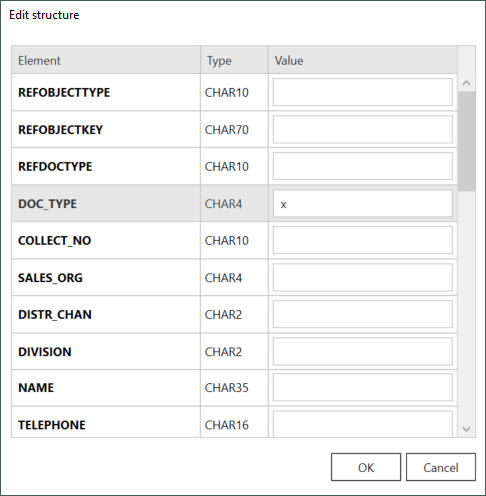
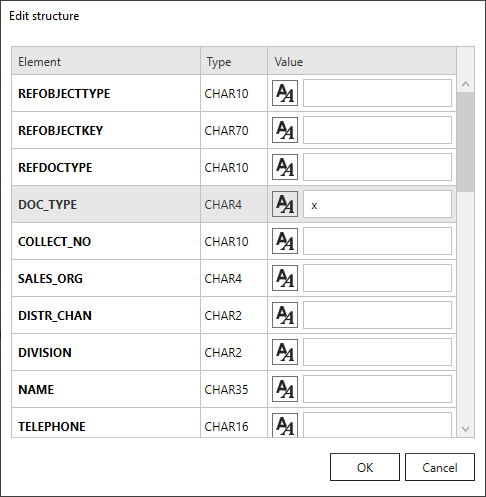
BAPI mapping

diff --git a/_includes/_content/de/xis-specific/xtract-is-bapi/parameters.md b/_includes/_content/de/xis-specific/xtract-is-bapi/parameters.md
@@ -4,17 +4,6 @@ Jeder Import, Export und Changings-Parameter kann einen der folgenden Darstellun
 - eine Struktur, die mehrere Komponenten beinhaltet
 - eine Tabelle
 
-|Symbol  | Beschreibung |Details | 
-| ----- | --------------- | ------------ | 
-|![sap-default](/img/content/icons/checkbox.png) | SAP Standardwerte|  Wenn diese Checkbox inaktiv ist, werden Standardwerte aus SAP verwendet. Nicht alle Felder haben Standardwerte. Wenn ein Wert in SAP vorhanden ist, wird er in hellgrauer Schrift im Eingabefeld angezeigt. |
-|![sap-default](/img/content/icons/checkbox-checked.png) | Feste Werte | Geben Sie Werte in das Eingabefeld ein. Vorhandene SAP Standardwerte werden überschrieben.|
-|![static-value](/img/content/icons/runtime-parameters-static.png) | Feste Werte | Geben Sie Werte in das Eingabefeld ein. Vorhandene SAP Standardwerte werden überschrieben. Klicken Sie auf das Symbol, um zwischen der Eingabe von festen Werten und SSIS-Variablen zu wechseln. |
-|![dynamic-value](/img/content/icons/runtime-parameters-dynamic.png) | Variablen | Diese Option ist nur verfügbar, wenn SSIS Variablen oder PArameter definiert sind. Klicken Sie auf das Symbol, um zwischen der Eingabe von festen Werten und SSIS-Variablen zu wechseln.  | 
-|![edit-icon](/img/content/icons/pen.png) | Struktur | Diese Option ist verfügbar, wenn der Parameter mehrere Skalarparameter beinhaltet. Klicken Sie auf das Symbol, um die beinhalteten Skalarparameter einzeln zu bearbeiten. | 
-|![glasses-icon](/img/content/icons/glasses.png) | Metadata | Zeigt die Metadaten (Spaltennamen und Datentypen) einer Struktur / Tabelle an. Diese Option ist nützlich, wenn Sie Tabellen mappen.| 
-
-![BAPI icons](/img/content/xis/BAPI-icons.png){:class="img-responsive"}
-
 ### Import-Parameter
 
 **Imports** repräsentiert die Eingabewerte, die vom Client an SAP gesendet werden. 
@@ -27,17 +16,16 @@ Um die Filterfunktion zu verwenden, geben Sie in der Kopfzeile der Spalten **Nam
 #### Skalarparameter hinzufügen (1)
 
 Es gibt zwei Möglichkeiten Skalarfelder einzustellen: 
-- als statischer Wert ( ![static-value](/img/content/icons/runtime-parameters-static.png) Symbol)
-- als SSIS-Variable / Parameter ( ![dynamic-value](/img/content/icons/runtime-parameters-dynamic.png) Symbol)
+- als statischer Wert ( ![static-value](/img/content/icons/runtime-parameters-static.png) Symbol oder kein Symbol).<br>
+- als SSIS-Variable / Parameter ( ![dynamic-value](/img/content/icons/runtime-parameters-dynamic.png) Symbol).<br>
 
 Klicken Sie auf das Symbol neben dem Eingabefeld, um zwischen statischen Werten und SSIS-Variablen / Parametern zu wechseln.
-
-Wenn Sie dynamische Laufzeitparameter verwenden, stellen Sie sicher, dass die Eingabe den passenden Datentyp hat.<br>
-Wenn Sie konstante Skalarwerte eingeben, werden Eingaben des falschen Datentyps automatisch rot markiert.
+Wenn Sie dynamische SSIS-Variablen verwenden, stellen Sie sicher, dass die Eingabe den passenden Datentyp hat.
 
 {: .box-note }
-**Note:** Parameter, die von SAP vorausgefüllt sind, werden in einer grauen Schrift angezeigt. <br>
+**Note:** Parameter, die von SAP vorausgefüllt sind, werden in einer grauen Schrift angezeigt.
 Um diese Parameter zu deaktivieren, haken Sie die Checkbox neben dem Parameter an und lassen Sie das Feld frei.
+
 
 #### Strukturen als Parameter hinzufügen (2)
 
@@ -46,7 +34,7 @@ Der gesamten Struktur nur einen Wert zuzuweisen ist nicht möglich.
 
 Wenn eine Struktur verfügbar ist, können Sie ihr Elemente hinzuzufügen.
 1. Klicken Sie auf das ![pen](/img/content/icons/pen.png) Symbol. Das Fenster "Edit Structures" öffnet sich.
-2. Geben Sie unter **Values** statische Werte oder SSIS-Variablen / Parameter ein.
+2. Geben Sie unter **Values** statische Werte ( ![static-value](/img/content/icons/runtime-parameters-static.png) Symbol oder kein Symbol) oder SSIS-Variablen / Parameter ( ![dynamic-value](/img/content/icons/runtime-parameters-dynamic.png) Symbol) ein.
 Klicken Sie auf das Symbol neben dem Eingabefeld, um zwischen statischen Werten und SSIS-Variablen / Parametern zu wechseln.<br>
 ![BAPI import parameters](/img/content/BAPI-Edit-Structure.png){:class="img-responsive"}
 
@@ -100,27 +88,24 @@ Aktivieren Sie die Checkbox in der Ausgabespalte, um Tabellen der Ausgabe hinzuz
 2. Klicken Sie auf **[Add]**, um neue Parameter hinzuzufügen.
 3. Geben Sie Werte oder Parameter ein.<br>
 Wenn Sie dynamische Laufzeitparameter verwenden, stellen Sie sicher, dass die Eingabe den passenden Datentyp hat.<br>
-Wenn Sie konstante Skalarwerte eingeben, werden Eingaben des falschen Datentyps automatisch rot markiert.<br>
 ![BAPI edit table](/img/content/BAPI-Edit-Table-Contents.png){:class="img-responsive"}
 4. Klicken Sie auf **[Remove]**, um die Eingabezeile zu entfernen.
 
-#### Mapping Input Tables
+### Tabellen Übergeben
 
-When connecting input data to the Xtract BAPI component, a data mapping between the input and the Xtract BAPI component is executed automatically. 
+Wenn Sie Tabellen an die Xtract BAPI Komponente übergeben, wird automatisch ein Datenmapping durchgeführt.
 
 ![BAPI table mapping](/img/content/ssis-write-xtractis-fuba-02.png){:class="img-responsive"}
 
-To correctly map the data, the following requirements must be met:
+Damit die Tabellenfelder korrekt zugewiesen werden, müssen folgende Voraussetzungen erfüllt sein:
 
-- The column names of the input table must be the same as in the Xtract BAPI component.
-- The data types in the input table must be the same as in the Xtract BAPI component.
+- Die Spaltennamen der Eingangstabelle müssen mit denen in der Xtract BAPI Komponente überein stimmen.
+- Die Datentypen in der Eingangstabelle müssen mit denen in der Xtract BAPI Komponente übereinstimmen
 
-To look up column names and data types in the Xtract BAPI component, open the Tables tab and click on the ![glasses-icon](/img/content/icons/glasses.png) icon next to the table.
-
-![BAPI table metadata](/img/content/BAPI-Table-Metadata.png){:class="img-responsive"}
+Klicken Sie auf das ![glasses-icon](/img/content/icons/glasses.png) Symbol neben einer Tabelle, um die Spaltennamen und Datentypen in der Tabelle einzusehen.
 
 {: .box-tip }
-**Tip:** If the column names and / or datatypes of the input table and the Xtract BAPI table do not match, add a Derived Column component to convert the input data.
+**Tipp:** Wenn die Spaltennamen und / oder die Datentypen der Eingangstabelle nicht mit der Xtract BAPI Tabelle übereinstimmt, fügen Sie eine *Derived Column* Komponente hinzu, um die Eingangsdaten zu konvertieren.
 
 
 *****

diff --git a/_includes/_content/en/xis-specific/bapi/parameters.md b/_includes/_content/en/xis-specific/bapi/parameters.md
@@ -9,27 +9,33 @@ Each Import, Export, Changings and Tables parameter can have one of the followin
 Import parameters represent the input values sent from the client to SAP. <br>
 In the tab **Imports** you can define import parameters that can be presented as scalar values or structures. 
 
-The following example shows how to parameterize different input fields:
-
-![BAPI icons](/img/content/xis/BAPI-icons.png){:class="img-responsive"}
-
-- (1) The field **BUSINESS_OBJECT** uses a static value that is entered manually.
-- (2) The field **CONVERT_PARVW_AUART** uses a predefined value from SAP.
-- (3) The field **ORDER_HEADER_IN** contains multiple parameters that need to be defined individually.
-- (4) The field **WITHOUT_COMMIT** is set via an SSIS variable by the name *Parameter0*.
-
-The icons next to the input fields indicate how a value is 
-
-|Icon  | Description |Details | 
-| ----- | --------------- | ------------ | 
-|![sap-default](/img/content/icons/checkbox.png) | SAP default value |  If this checkbox is inactive, the default value from SAP is used. Not all fields have default values. If a default value is available, the value is displayed in a light grey color in the input field. To disable parameters that are predefined in SAP, activate the checkbox next to the parameter and leave the input field empty.|
-|![sap-default](/img/content/icons/checkbox-checked.png) | Static values | Enter values into the input field. SAP default values for the input field are automatically overwritten. When entering values of a wrong data type, the field is marked red and an error message is displayed, e.g. "Value is not numeric".|
-|![static-value](/img/content/icons/runtime-parameters-static.png) | Static values | Enter values into the input field. SAP default values for the input field are automatically overwritten. Click on the icon to switch between static input values and SSIS variables. |
-|![dynamic-value](/img/content/icons/runtime-parameters-dynamic.png) | Variables | This option is only available if SSIS variables or parameters are defined. The input must match the data type of the field. Click on the icon to switch between static input values and SSIS variables. | 
-|![edit-icon](/img/content/icons/pen.png) | Structure | This option is available if a parameter contains multiple scalar parameters. Click on the icon to edit the individual scalar parameters. Setting a single value or an SSIS variable / parameter for the whole structure is not possible. | 
-|![glasses-icon](/img/content/icons/glasses.png) | Metadata | Displays the metadata of a structure / table, e.g. column names and data types. This option is useful when mapping input data to tables, see [Mapping Input Tables](#mapping-input-table).| 
+![BAPI import parameters](/img/content/XU-BAPI-Parameters.png){:class="img-responsive"}
 
 To use the filtering function, enter text in the headers of the columns **Name** and **Description**. <br>
+
+#### Add Scalar Parameters (1)
+
+Scalar fields for inputs are usually set using the following two options:
+- A static constant value ( ![static-value](/img/content/icons/runtime-parameters-static.png) icon or no icon).
+- An SSIS variable / parameter ( ![dynamic-value](/img/content/icons/runtime-parameters-dynamic.png) icon).
+
+Click on the icon next to the input field to switch between static input values and SSIS variables / parameters.
+When using variables, make sure the input matches the data type.<br>
+
+
+{: .box-note }
+**Note:** Parameters that are predefined by SAP are displayed in a light grey font. <br>
+To disable these parameters, activate the checkbox next to the parameter and leave the field empty. <br>
+
+#### Add Structures as Parameters (2)
+
+When using a structure, a value for each scalar field can be set similarly to a scalar field. 
+Setting a single value or a parameter for the whole structure is not possible.
+
+When a structure is available, you can assign structure elements (i.e. fields).<br>
+1. Click the ![pen](/img/content/icons/pen.png) icon. The window "Edit Structures" opens.
+2. Enter constant values ( ![static-value](/img/content/icons/runtime-parameters-static.png) or assign SSIS variables / parameters ( ![dynamic-value](/img/content/icons/runtime-parameters-dynamic.png) icon) under **Values**.
+![BAPI import parameters](/img/content/BAPI-Edit-Structure.png){:class="img-responsive"}
 
 ### Export Parameters
 Export parameters represent the output values sent from SAP back to the client after execution of a function module. <br>
@@ -79,14 +85,13 @@ When a structure is available, you can assign structure elements (i.e. fields).<
  1. Click the ![pen](/img/content/icons/pen.png) icon to edit the table. The window "Edit Table Contents" opens.
  2. Click **[Add]** to add new set of parameters.<br>
  3. Enter values or parameters.<br>
-When using runtime parameters, make sure the input matches the data type.<br>
-When entering constant scalar values of a wrong data type, the field is marked red.<br>
+When using variables, make sure the input matches the data type.
 ![BAPI edit table](/img/content/BAPI-Edit-Table-Contents.png){:class="img-responsive"}
 4. Click **[Remove]** to delete a row.
 
-#### Mapping Input Tables
+### Mapping Input Tables
 
-When connecting input data to the Xtract BAPI component, a data mapping between the input and the Xtract BAPI component is executed automatically. 
+When connecting tables to the Xtract BAPI component, a data mapping is executed automatically. 
 
 ![BAPI table mapping](/img/content/ssis-write-xtractis-fuba-02.png){:class="img-responsive"}
 
@@ -95,9 +100,7 @@ To correctly map the data, the following requirements must be met:
 - The column names of the input table must be the same as in the Xtract BAPI component.
 - The data types in the input table must be the same as in the Xtract BAPI component.
 
-To look up column names and data types in the Xtract BAPI component, open the Tables tab and click on the ![glasses-icon](/img/content/icons/glasses.png) icon next to the table.
-
-![BAPI table metadata](/img/content/BAPI-Table-Metadata.png){:class="img-responsive"}
+Click on the ![glasses-icon](/img/content/icons/glasses.png) icon next to a table to look up column names and data types in the Xtract BAPI component.
 
 {: .box-tip }
 **Tip:** If the column names and / or datatypes of the input table and the Xtract BAPI table do not match, add a *Derived Column* component to convert the input data.

diff --git a/_includes/_content/de/bapi/parameters.md b/_includes/_content/de/bapi/parameters.md
@@ -16,11 +16,11 @@ Um die Filterfunktion zu verwenden, geben Sie in der Kopfzeile der Spalten **Nam
 #### Skalarparameter hinzufügen (1)
 
 Es gibt zwei Möglichkeiten Skalarfelder einzustellen: 
-- als statischer Wert (z.B. 1141)
-- als dynamischen Wert, der über einen [Parameter](./edit-runtime-parameters) während der Laufzeit übergeben wird.
+- als statischer Wert ( ![static-value](/img/content/icons/runtime-parameters-static.png) Symbol oder kein Symbol).
+- als Laufzeitparameter ( ![dynamic-value](/img/content/icons/runtime-parameters-dynamic.png) Symbol).
 
-Wenn Sie dynamische Laufzeitparameter verwenden, stellen Sie sicher, dass die Eingabe den passenden Datentyp hat.<br>
-Wenn Sie konstante Skalarwerte eingeben, werden Eingaben des falschen Datentyps automatisch rot markiert.
+Klicken Sie auf das Symbol neben dem Eingabefeld, um zwischen statischen Werten und Laufzeitparametern zu wechseln.
+Wenn Sie dynamische Laufzeitparameter verwenden, stellen Sie sicher, dass die Eingabe den passenden Datentyp hat.
 
 {: .box-note }
 **Note:** Parameter, die von SAP vorausgefüllt sind, werden in einer grauen Schrift angezeigt. <br>
@@ -33,8 +33,8 @@ Der gesamten Struktur nur einen Wert zuzuweisen ist nicht möglich.
 
 Wenn eine Struktur verfügbar ist, können Sie ihr Elemente hinzuzufügen.
 1. Klicken Sie auf das ![pen](/img/content/icons/pen.png) Symbol. Das Fenster "Edit Structures" öffnet sich.
-2. Geben Sie unter **Values** Werte oder Parameter ein.
-
+2. Geben Sie unter **Values** statische Werte ( ![static-value](/img/content/icons/runtime-parameters-static.png) Symbol oder kein Symbol) oder Parameter ( ![dynamic-value](/img/content/icons/runtime-parameters-dynamic.png) Symbol) ein.
+Klicken Sie auf das Symbol neben dem Eingabefeld, um zwischen statischen Werten und SSIS-Variablen / Parametern zu wechseln.<br>
 ![BAPI import parameters](/img/content/BAPI-Edit-Structure.png){:class="img-responsive"}
 
 ### Export-Parameter
@@ -87,6 +87,5 @@ Aktivieren Sie die Checkbox in der Ausgabespalte, um Tabellen der Ausgabe hinzuz
 2. Klicken Sie auf **[Add]**, um neue Parameter hinzuzufügen.
 3. Geben Sie Werte oder Parameter ein.<br>
 Wenn Sie dynamische Laufzeitparameter verwenden, stellen Sie sicher, dass die Eingabe den passenden Datentyp hat.<br>
-Wenn Sie konstante Skalarwerte eingeben, werden Eingaben des falschen Datentyps automatisch rot markiert.<br>
 ![BAPI edit table](/img/content/BAPI-Edit-Table-Contents.png){:class="img-responsive"}
 4. Klicken Sie auf **[Remove]**, um die Eingabezeile zu entfernen.

diff --git a/_includes/_content/en/bapis-and-function-modules/parameters.md b/_includes/_content/en/bapis-and-function-modules/parameters.md
@@ -15,11 +15,11 @@ To use the filtering function, enter text in the headers of the columns **Name**
 #### Add Scalar Parameters (1)
 
 Scalar fields for inputs are usually set using the following two options:
-- A static constant value (e.g., 1141).
-- A dynamic value set at run-time using a parameter, see [Runtime Parameters](./edit-runtime-parameters).
+- A static constant value ( ![static-value](/img/content/icons/runtime-parameters-static.png) icon or no icon).
+- A dynamic value set at run-time ( ![dynamic-value](/img/content/icons/runtime-parameters-dynamic.png) icon), see [Runtime Parameters](./edit-runtime-parameters).
 
+Click on the icon next to the input field to switch between static input values and runtime parameters.
 When using runtime parameters, make sure the input matches the data type.<br>
-When entering constant scalar values of a wrong data type, the field is marked red and an error message is displayed (e.g. "Value is not numeric").
 
 {: .box-note }
 **Note:** Parameters that are predefined by SAP are displayed in a light grey font. <br>
@@ -32,7 +32,7 @@ Setting a single value or a parameter for the whole structure is not possible.
 
 When a structure is available, you can assign structure elements (i.e. fields).<br>
 1. Click the ![pen](/img/content/icons/pen.png) icon. The window "Edit Structures" opens.
-2. Enter values or assign runtime parameters under **Values**.
+2. Enter constant values ( ![static-value](/img/content/icons/runtime-parameters-static.png) icon or no icon) or assign runtime parameters ( ![dynamic-value](/img/content/icons/runtime-parameters-dynamic.png) icon) under **Values**.
 ![BAPI import parameters](/img/content/BAPI-Edit-Structure.png){:class="img-responsive"}
 
 ### Export Parameters
@@ -86,7 +86,6 @@ When a structure is available, you can assign structure elements (i.e. fields).<
  2. Click **[Add]** to add new set of parameters.<br>
  3. Enter values or parameters.<br>
 When using runtime parameters, make sure the input matches the data type.<br>
-When entering constant scalar values of a wrong data type, the field is marked red.<br>
 ![BAPI edit table](/img/content/BAPI-Edit-Table-Contents.png){:class="img-responsive"}
 4. Click **[Remove]** to delete a row.
 

diff --git a/content/_en/xtract-is/bapi/parameters.md b/content/_en/xtract-is/bapi/parameters.md
@@ -11,4 +11,5 @@ lang: en_GB
 old_url: /Xtract-IS-EN/default.aspx?pageid=scalar-parameters
 ---
 
+
 {% include _content/en/xis-specific/bapi/parameters.md %}

diff --git a/content/_de/xtract-is/xtract-is-bapi/parameter.md b/content/_de/xtract-is/xtract-is-bapi/parameter.md
@@ -12,4 +12,3 @@ old_url: /Xtract-IS-DE/default.aspx?pageid=skalare-parameter
 ---
 
 {% include _content/de/xis-specific/xtract-is-bapi/parameters.md %}
-
